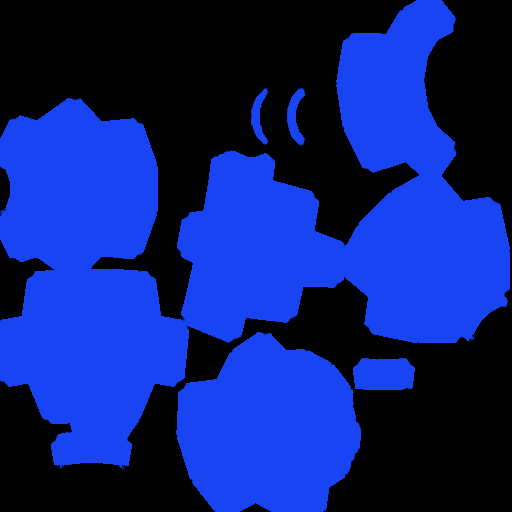
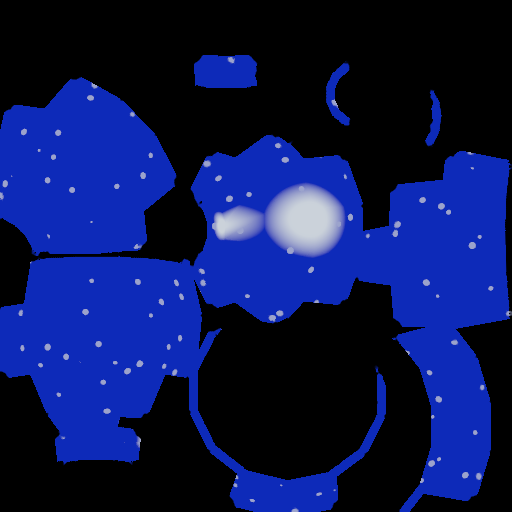
DOOM-0539: a smaller, darker, brim-full glass health-bonus flask
Per the user's 2026-11-15 notes. 13.8 units high, the sprite's standing
height; the blue liquid fills it to the lip; pale glass at the base and
lip, a glint and bubbles painted into the colour and glow maps. Built
by Blender Scripts/pickups/doom_bon1.py (CC0); the 2026-11-05 builder
is kept in pickups/previous/. pickup_models_test and rb_model_test pass;
seen on E1M1, Ultra raster and traced.

diff --git a/ROADMAP.md b/ROADMAP.md
@@ -19268,6 +19268,17 @@ in CLAUDE.md describes.
   slightly darker blue; filled to the top, no empty space for more
   liquid; it must read as glass, maybe with bubbles inside. MEDI not
   mentioned.
+  2026-11-15: BON1 redone per the user's notes, live, waiting on their
+  look. doom_bon1.py: the profile scaled by 0.8 to 13.8 high, 11.2 wide
+  (the sprite stands 14 high: 18 tall, top offset 14); liquid a little
+  darker and up to the lip, no empty neck; pale glass at the base and
+  lip; a painted glint and Voronoi bubbles in the colour and glow maps
+  (pickups bake no roughness map). 280 triangles (cap 300). Previous
+  builder kept as pickups/previous/doom_bon1-2026-11-05.py. Seen on E1M1
+  at 96 -3072 from 144 -2990 245, Ultra raster and traced: bubbles plain
+  in raster, softer traced. pickup_models_test and rb_model_test pass.
+  MEDI: no verdict. Next: batch 2, the keys and the ammo (user
+  2026-11-15).
   **Layman:** Health, armour, ammo, keys and power-ups become real 3D objects, so their glow can come from exactly the right spot inside them.
   Kind: feature.
   Source: user-request-2026-11-02.
